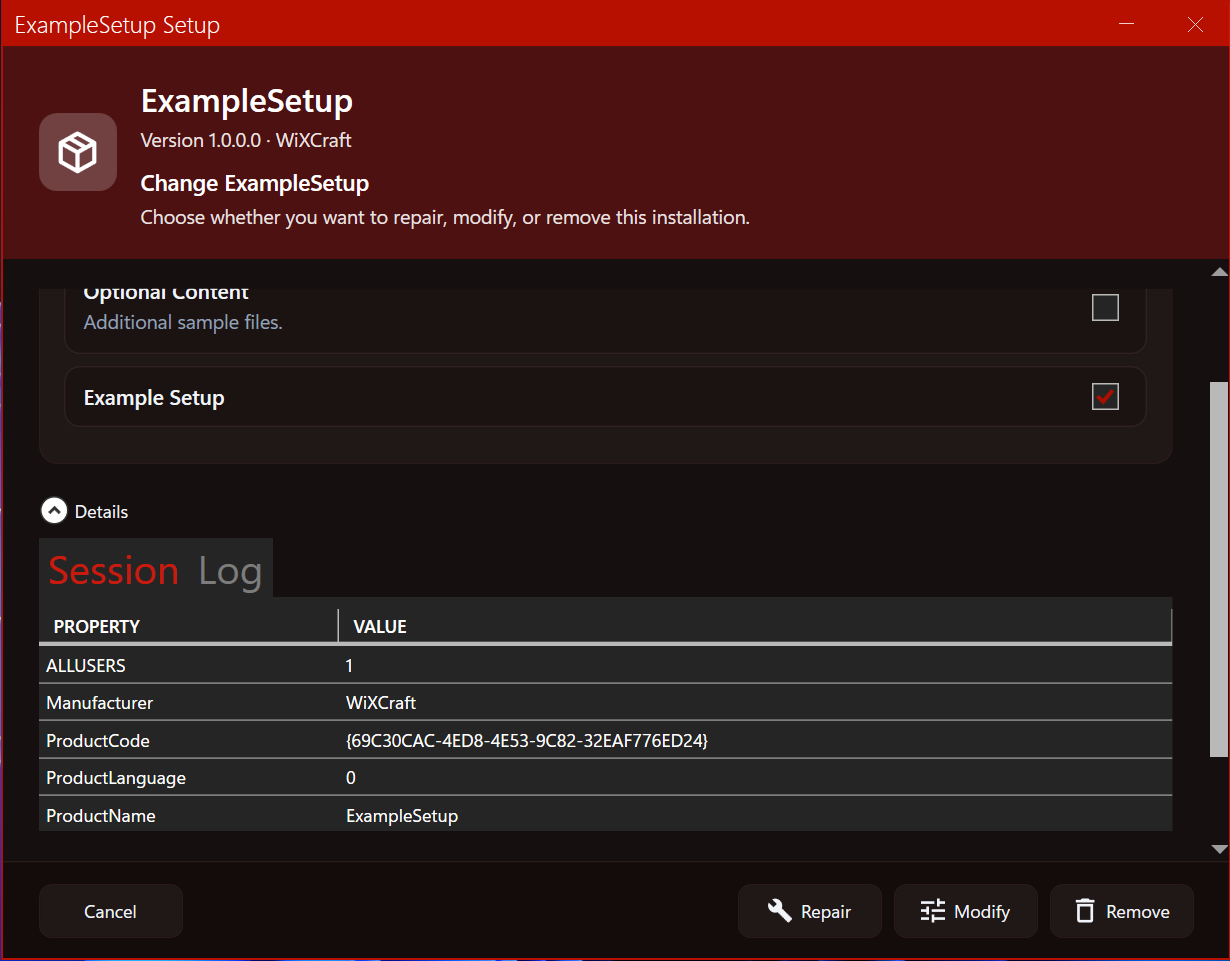
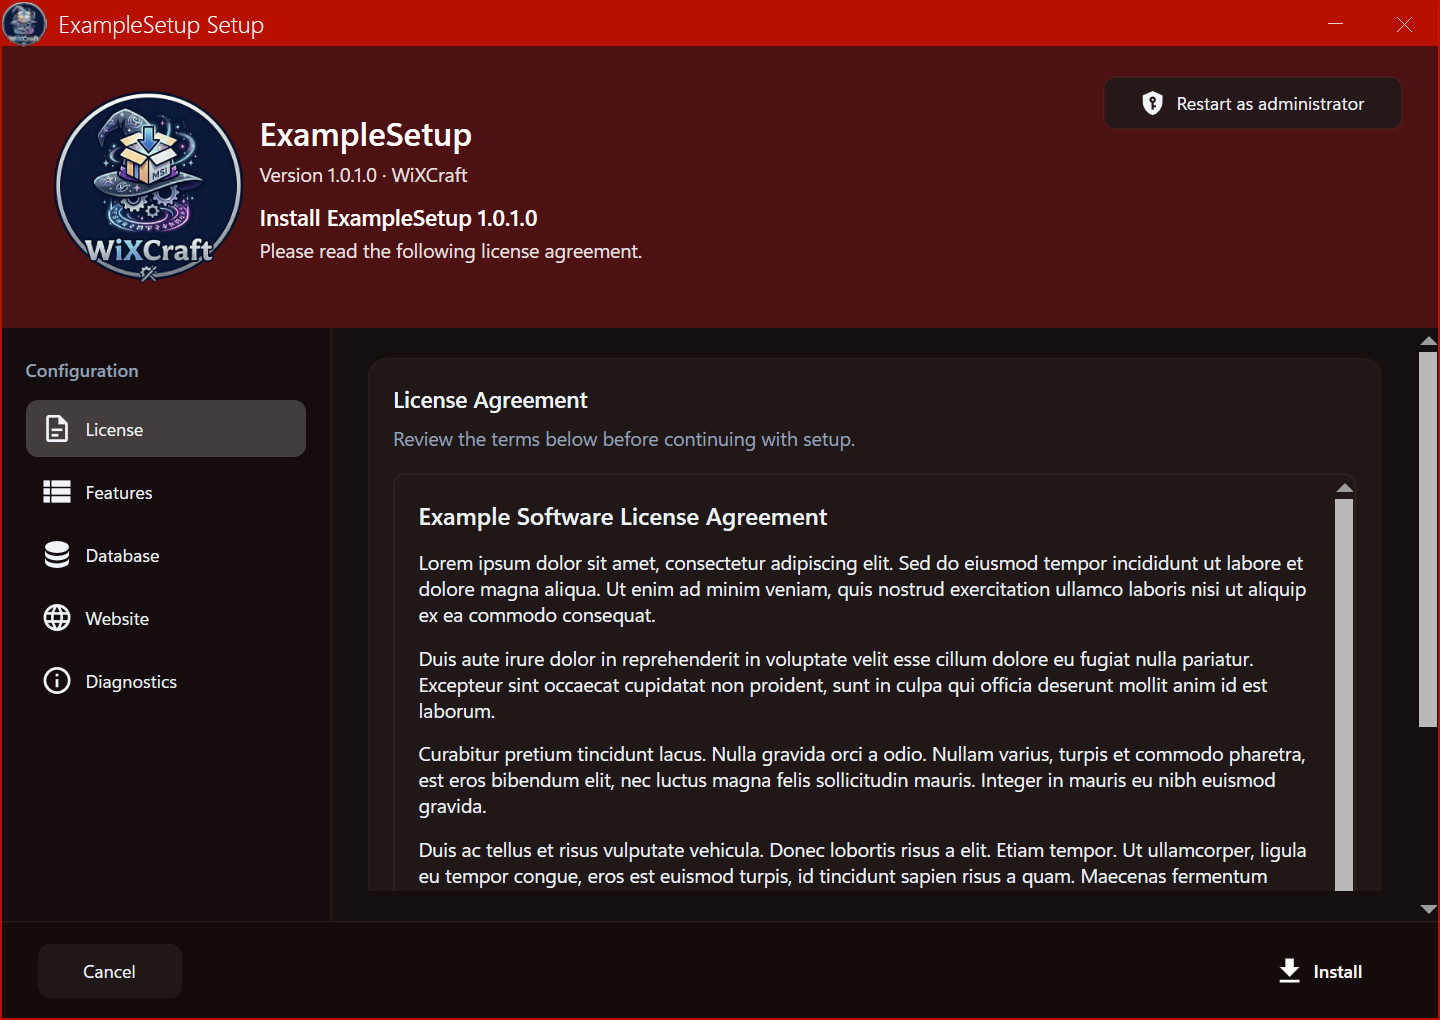
Added branding

diff --git a/src/ExampleInterface/Views/SetupWizardView.xaml b/src/ExampleInterface/Views/SetupWizardView.xaml
@@ -10,12 +10,13 @@
                  Height="680" Width="960"
                  MinHeight="560" MinWidth="840"
                  WindowStartupLocation="CenterScreen"
+                 Icon="pack://application:,,,/ExampleInterface;component/Assets/logo.ico"
                  GlowBrush="{DynamicResource AccentColorBrush}"
                  BorderThickness="1"
                  Background="Transparent"
                  WindowTransitionsEnabled="False"
                  ResizeMode="CanMinimize"
-                 ShowIconOnTitleBar="False">
+                 ShowIconOnTitleBar="True">
   <Window.Resources>
     <ResourceDictionary>
       <ResourceDictionary.MergedDictionaries>
@@ -46,14 +47,12 @@
           <ColumnDefinition Width="*" />
           <ColumnDefinition Width="Auto" />
         </Grid.ColumnDefinitions>
-
-        <Border Width="52" Height="52" CornerRadius="12" Background="#33FFFFFF" Margin="0,0,16,0">
-          <iconPacks:PackIconMaterial Kind="PackageVariantClosed"
-                                      Width="28" Height="28"
-                                      Foreground="White"
-                                      HorizontalAlignment="Center"
-                                      VerticalAlignment="Center" />
-        </Border>
+        
+        <Image Source="pack://application:,,,/ExampleInterface;component/Assets/logo.png"
+                 Width="128" Height="128"
+                 HorizontalAlignment="Center"
+                 VerticalAlignment="Center"
+                 RenderOptions.BitmapScalingMode="HighQuality" Margin="10"/>
 
         <StackPanel Grid.Column="1" VerticalAlignment="Center">
           <TextBlock Text="{Binding ProductName}" FontSize="22" FontWeight="SemiBold"

diff --git a/src/ExampleInterface/Windows/InstallerElevationHelper.cs b/src/ExampleInterface/Windows/InstallerElevationHelper.cs
@@ -27,7 +27,11 @@ namespace ExampleInterface.Windows
 
     public static bool IsElevated(IInstallerSession session)
     {
+#if (DEBUG)
+      return false;
+#else
       return IsInstallerPrivileged(session) || IsProcessElevated();
+#endif
     }
 
     public static bool TryRestartElevated(string msiPath, out string errorMessage)

diff --git a/README.md b/README.md
@@ -1,3 +1,7 @@
+<p align="center">
+  <img src="assets/logo.png" alt="WiXCraft logo" width="256" />
+</p>
+
 # WiXCraft
 
 WiXCraft is a small toolkit for building **custom WPF embedded UI** installers with [WiX Toolset v5](https://wixtoolset.org/). It replaces the boilerplate normally required to implement `IEmbeddedUI`, wire up MSI message handling, progress tracking, maintenance-mode flows, and install cancellation.